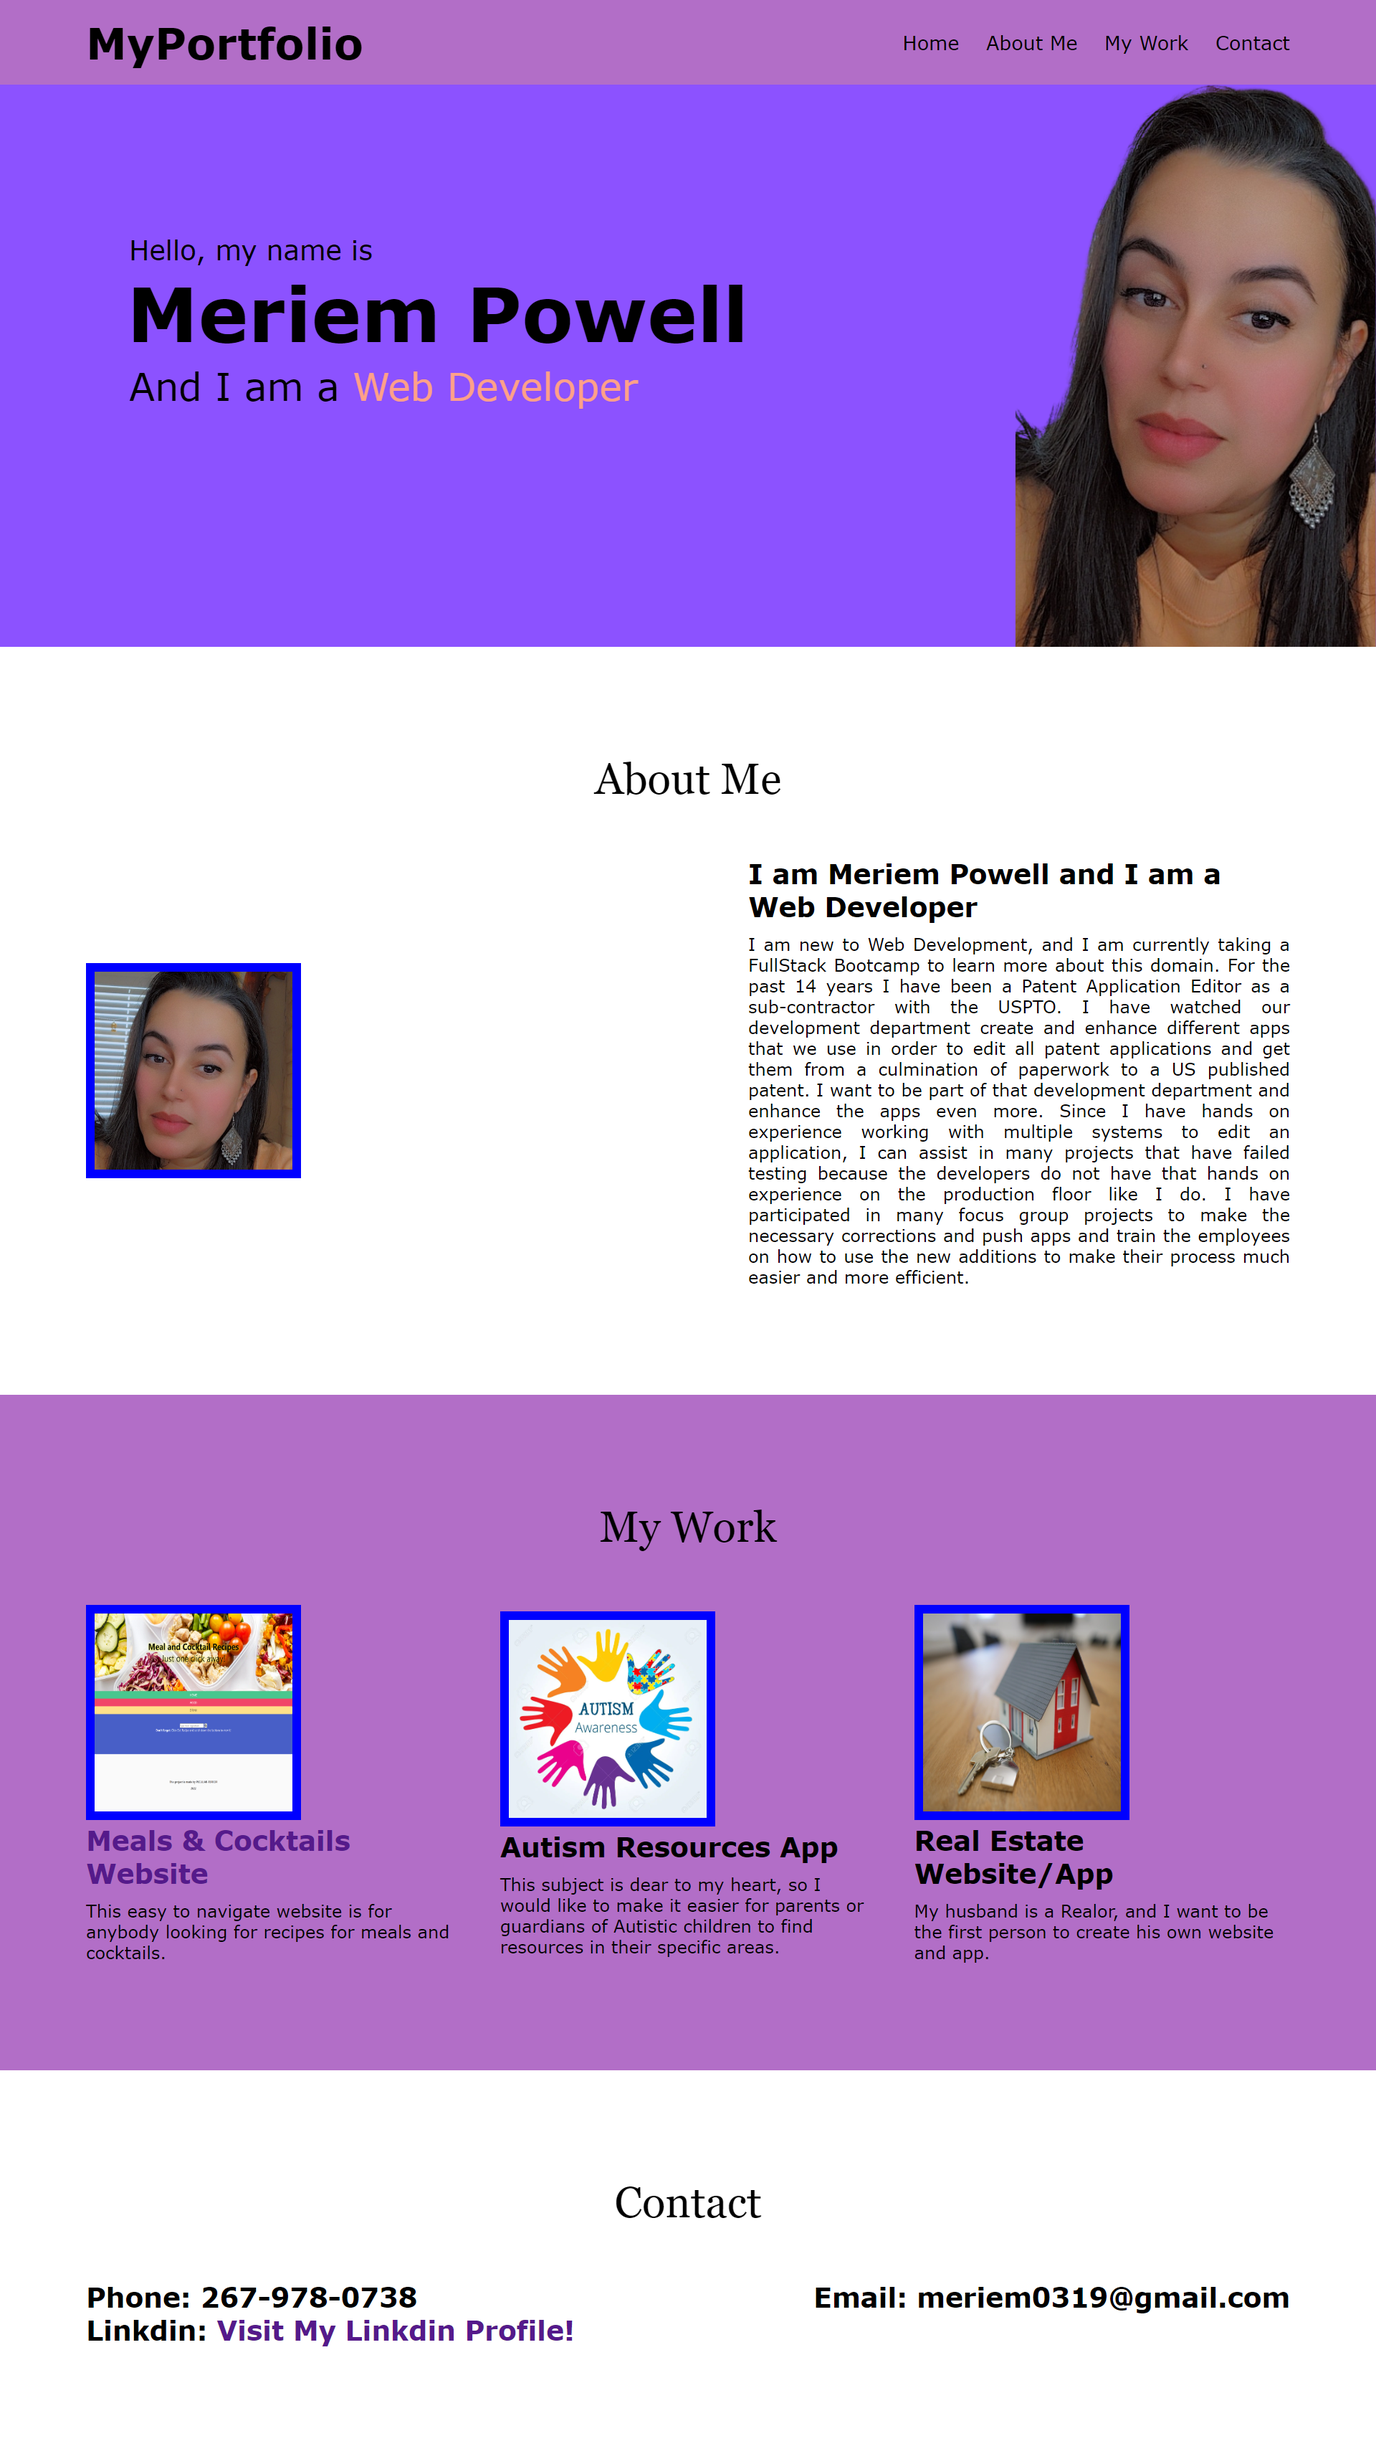
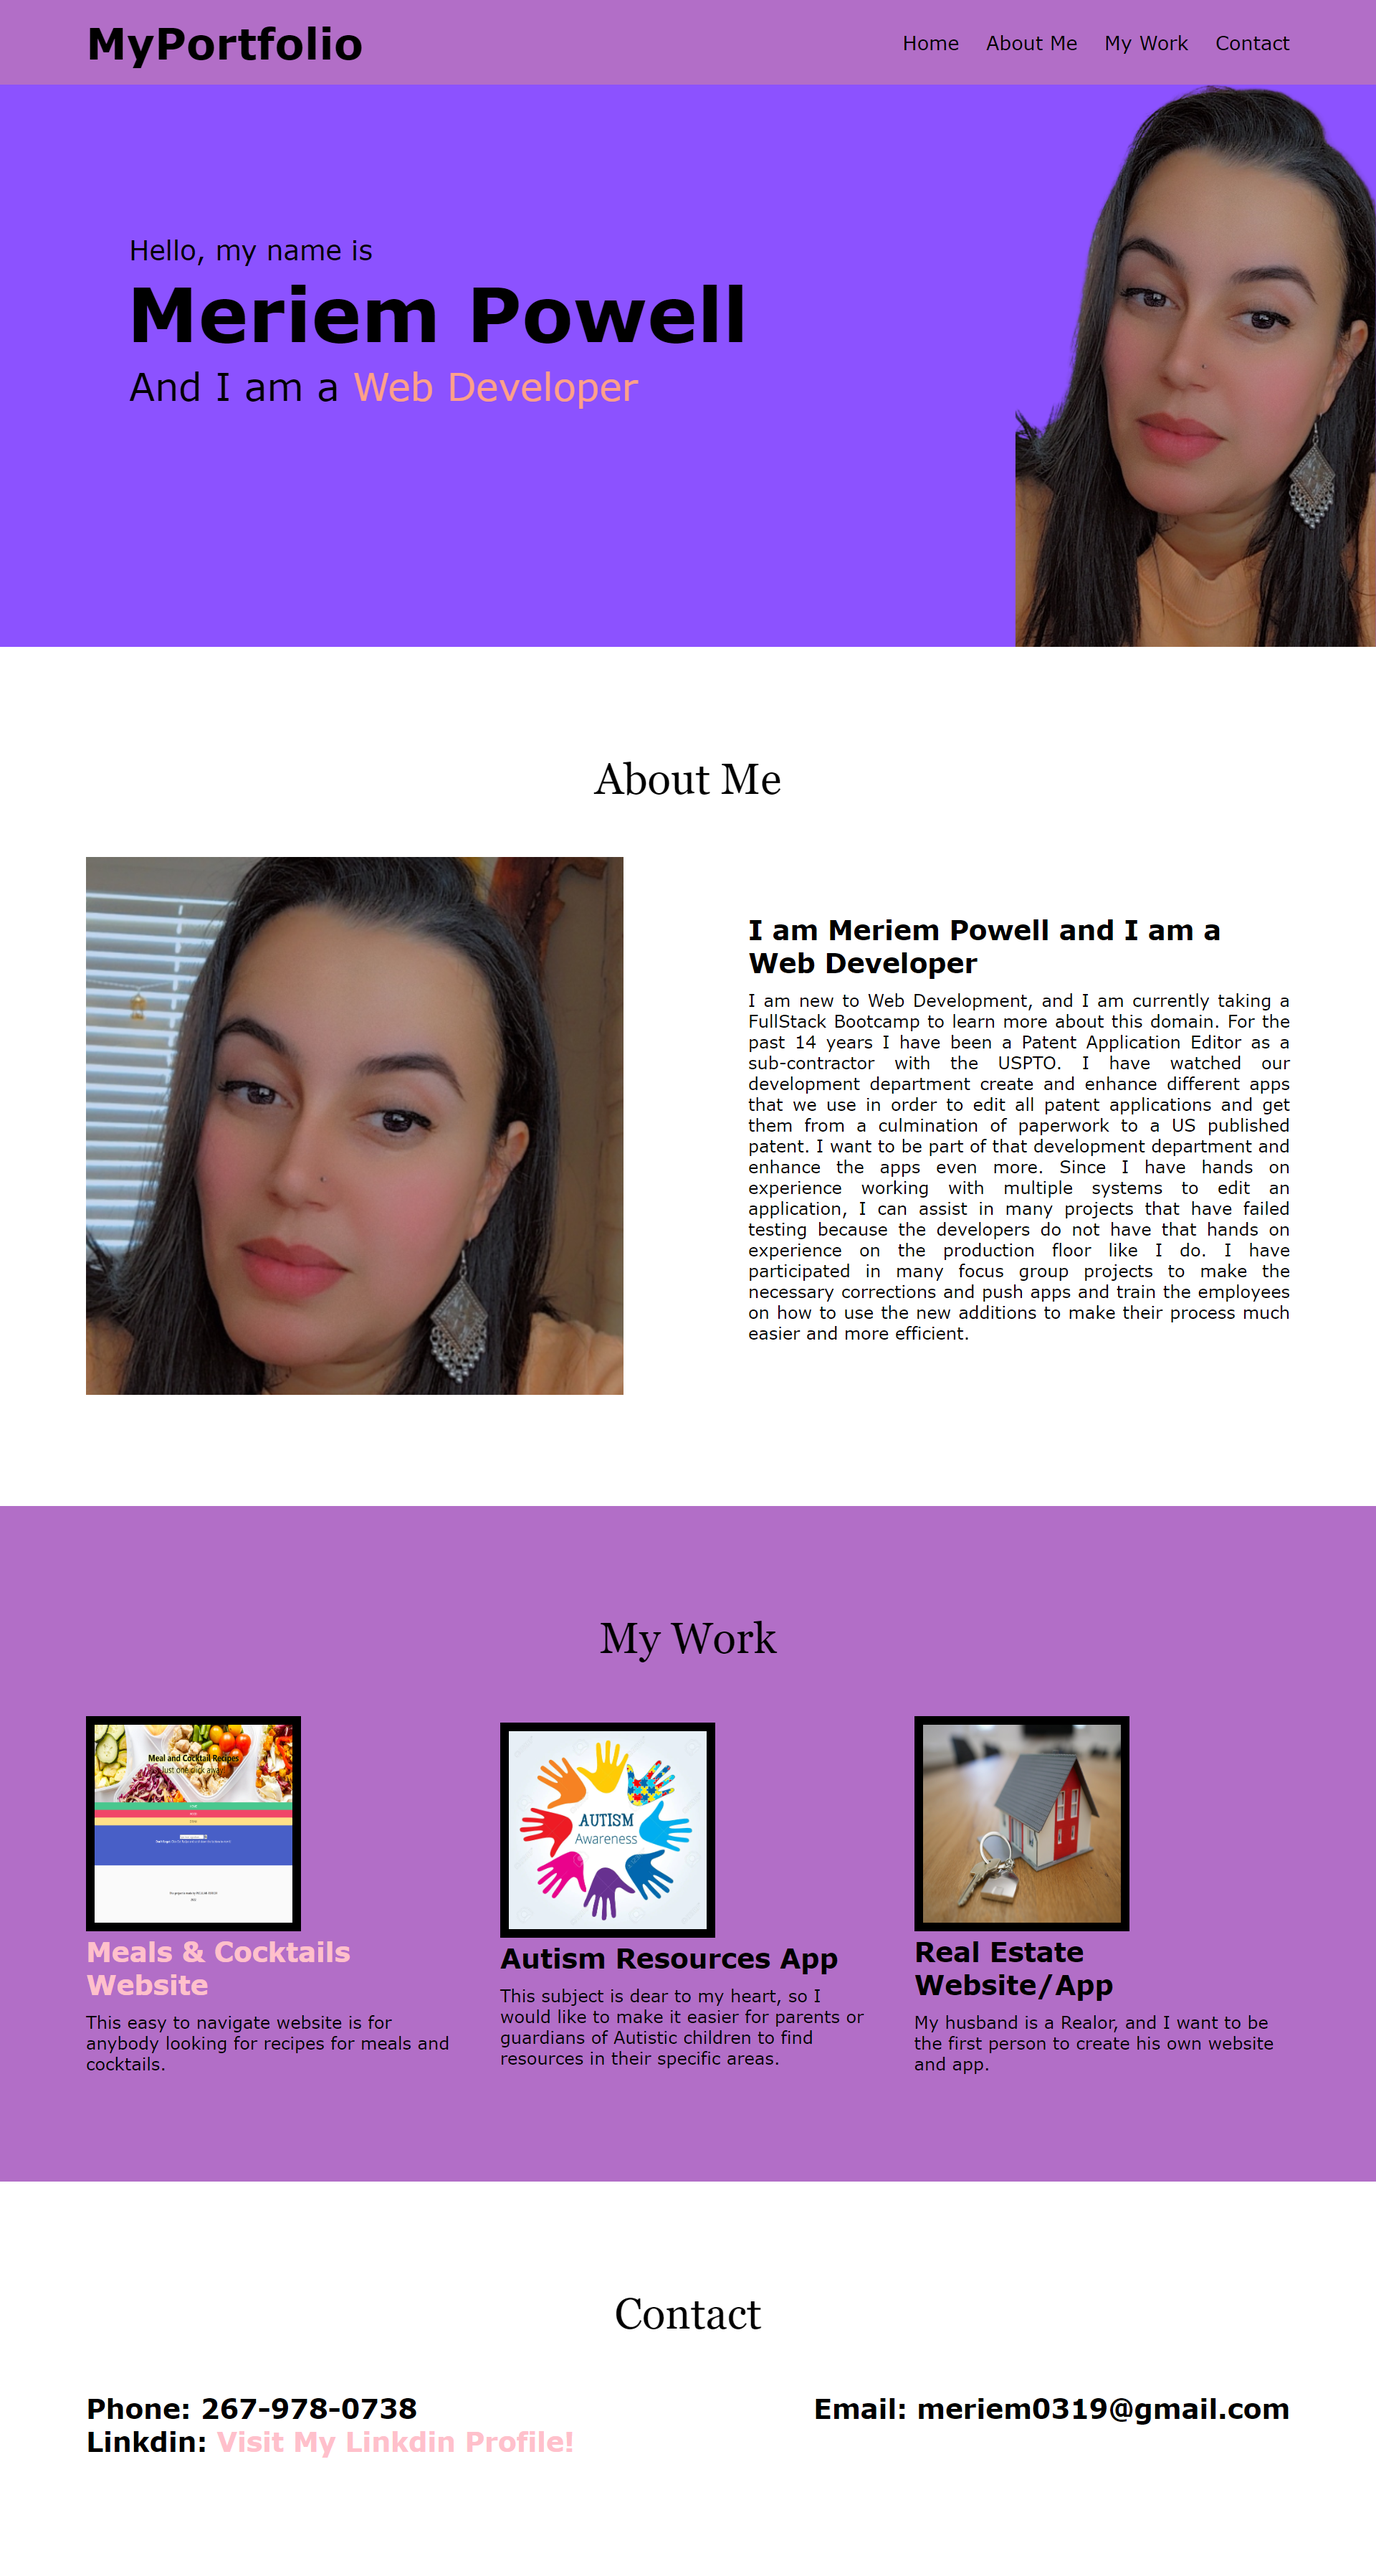
redid the screenshot and link hover in css

diff --git a/assets/style.css b/assets/style.css
@@ -1,4 +1,4 @@
-*{
+* {
     margin: 0;
     padding: 0;
     box-sizing: border-box;
@@ -20,21 +20,25 @@
     background: #b26ec7;
     font-family: Verdana, Geneva, Tahoma, sans-serif;
 }
+
 .navbar .max-width {
     display: flex;
     align-items: center;
     justify-content: space-between;
 }
+
 .navbar .logo a {
     font-size: 40px;
     font-weight: 600;
     color: black;
-    
+
 }
+
 .navbar .menu li {
     list-style: none;
     display: inline-block;
 }
+
 .navbar .menu li a {
     font-size: 18px;
     font-weight: 500;
@@ -44,6 +48,7 @@
     color: black;
     transition: color 0.3s ease;
 }
+
 .navbar .menu li a:hover {
     color: #ffa089;
 }
@@ -53,27 +58,32 @@
     display: flex;
     background: url("images/mypic.png") no-repeat center;
     height: 100vh;
-    background-size:cover;
+    background-size: cover;
     background-attachment: fixed;
     color: black;
     min-height: 500px;
     font-family: Verdana, Geneva, Tahoma, sans-serif;
 }
+
 .home .max-width {
     margin: auto 0 auto 40px;
 }
+
 .home .home-content .text-hello {
     font-size: 25px;
 }
+
 .home .home-content .text-name {
     font-size: 70px;
     font-weight: 600;
     margin-left: -2px;
 }
+
 .home .home-content .text-intro {
     font-size: 35px;
     margin: 5px 0;
 }
+
 .home .home-content .text-intro span {
     color: #ffa089;
     font-weight: 500;
@@ -83,9 +93,11 @@
 section {
     padding: 100px 0;
 }
+
 .about {
     font-family: Verdana, Geneva, Tahoma, sans-serif;
 }
+
 .about .title {
     position: relative;
     text-align: center;
@@ -95,12 +107,14 @@ section {
     padding-bottom: 10px;
     font-family: Georgia, 'Times New Roman', Times, serif;
 }
+
 .about .about-content {
     display: flex;
     align-items: center;
     flex-wrap: wrap;
     justify-content: space-between;
 }
+
 .about .about-content .left {
     width: 45%;
 }
@@ -111,14 +125,17 @@ section {
     object-fit: cover;
     border-radius: 10px;
 }
+
 .about .about-content .right {
     width: 45%;
 }
+
 .about .about-content .right .text {
     font-size: 25px;
     font-weight: 600;
     margin-bottom: 10px;
 }
+
 .about .about-content .right p {
     text-align: justify;
 }
@@ -128,6 +145,7 @@ section {
     background: #b26ec7;
     font-family: Verdana, Geneva, Tahoma, sans-serif;
 }
+
 .work .title {
     position: relative;
     text-align: center;
@@ -137,17 +155,20 @@ section {
     padding-bottom: 10px;
     font-family: Georgia, 'Times New Roman', Times, serif;
 }
+
 .work .work-content {
     display: flex;
     align-items: center;
     flex-wrap: wrap;
     justify-content: space-between;
 }
+
 .work .work-content .card .text {
     font-size: 25px;
     font-weight: 600;
     margin-bottom: 10px;
 }
+
 .work .work-content .card {
     width: calc(33% - 20px);
 }
@@ -156,6 +177,7 @@ section {
 .contact {
     font-family: Verdana, Geneva, Tahoma, sans-serif;
 }
+
 .contact .title {
     position: relative;
     text-align: center;
@@ -165,13 +187,14 @@ section {
     padding-bottom: 10px;
     font-family: Georgia, 'Times New Roman', Times, serif;
 }
+
 .contact .contact-content {
     display: flex;
     align-items: center;
     flex-wrap: wrap;
     justify-content: space-between;
     margin-bottom: 10px;
-    font-weight:600;
+    font-weight: 600;
     font-size: 25px;
 }
 
@@ -183,6 +206,7 @@ section {
     }
 
 }
+
 @media (max-width: 1104px) {
     .about .about-content .left .img {
         height: 300px;
@@ -200,30 +224,37 @@ section {
     .max-width {
         padding: 0 50px;
     }
-    .navbar .menu li a{
+
+    .navbar .menu li a {
         display: inline-block;
         margin: 5px 0;
         font-size: 18px;
         margin-left: 5px;
         list-style: none;
     }
+
     .home .home-content .text-intro {
         font-size: 70px;
     }
+
     .home .home-content .text-name {
         font-size: 35px;
     }
+
     .max-width {
         max-width: 800px;
     }
+
     .about .about-content .column {
         width: 100%;
     }
+
     .about .about-content .left {
         display: flex;
         justify-content: center;
         margin: 0 auto 60px;
     }
+
     .about .about-content .right {
         flex: 100%;
     }
@@ -233,9 +264,11 @@ section {
     .max-width {
         padding: 0 23px;
     }
+
     .home .home-content .text-intro {
         font-size: 60px;
     }
+
     .home .home-content .text-name {
         font-size: 32px;
     }
@@ -245,16 +278,44 @@ section {
     .max-width {
         padding: 0 23px;
     }
+
     .home .home-content .text-intro {
         font-size: 50px;
     }
+
     .home .home-content .text-name {
         font-size: 27px;
     }
 }
 
-img {  
-  width: 200px;
-  height: 200px;
-  border: 8px solid black;
+/* added the size of the images of the My Work section  */
+#myWork {
+    width: 200px;
+    height: 200px;
+    border: 8px solid black;
+}
+
+/* adding the different color link to click for My Work section  */
+a:link {
+    color: green;
+    background-color: transparent;
+    text-decoration: none;
+}
+
+a:visited {
+    color: pink;
+    background-color: transparent;
+    text-decoration: none;
+}
+
+a:hover {
+    color: purple;
+    background-color: transparent;
+    text-decoration: underline;
+}
+
+a:active {
+    color: yellow;
+    background-color: transparent;
+    text-decoration: underline;
 }

diff --git a/index.html b/index.html
@@ -53,17 +53,17 @@
             <h2 class="title">My Work</h2>
             <div class="work-content">
                 <div class="card">
-                    <img src="./assets/images/FoodCocktailDemo.png" atl="Meals & Cocktails Page">
-                    <div class="text"><a href="https://jamshedsadullaev.github.io/Peculiar-terror/">Meals & Cocktails Website</a></div>
+                    <img id="myWork" src="./assets/images/FoodCocktailDemo.png" atl="Meals & Cocktails Page">
+                    <div class="text"><a href="https://jamshedsadullaev.github.io/Peculiar-terror/" target="_blank">Meals & Cocktails Website</a></div>
                     <p>This easy to navigate website is for anybody looking for recipes for meals and cocktails.</p>
                 </div>
                 <div class="card">
-                    <img src="./assets/images/autismappDemo.png" atl="Austism Awareness Symbol">
+                    <img id="myWork" src="./assets/images/autismappDemo.png" atl="Austism Awareness Symbol">
                     <div class="text">Autism Resources App</div>
                     <p>This subject is dear to my heart, so I would like to make it easier for parents or guardians of Autistic children to find resources in their specific areas.</p>
                 </div>
                 <div class="card">
-                    <img src="./assets/images/RE.png" atl="Real Estate Page">
+                    <img id="myWork" src="./assets/images/RE.png" atl="Real Estate Page">
                     <div class="text">Real Estate Website/App</div>
                     <p>My husband is a Realor, and I want to be the first person to create his own website and app.</p>
                 </div>
@@ -78,7 +78,7 @@
             <div class="contact-content">
                 <div class="phone">Phone: 267-978-0738</div>
                 <div class="email">Email: meriem0319@gmail.com</div>
-                <div class="linkdin">Linkdin: <a href="https://www.linkedin.com/in/meriem-powell-13185a23b/">Visit My Linkdin Profile!</a> </div>        
+                <div class="linkdin">Linkdin: <a href="https://www.linkedin.com/in/meriem-powell-13185a23b/" target="_blank">Visit My Linkdin Profile!</a> </div>        
             </div>
         </div>    
     </section>
